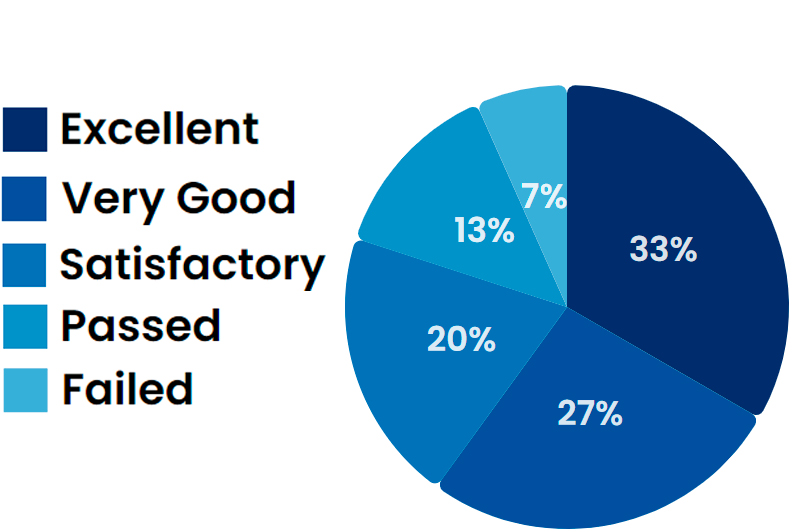
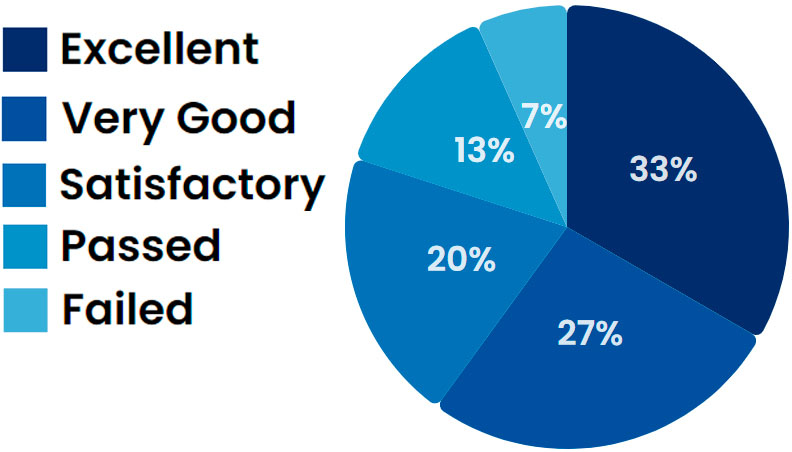
graphs again

diff --git a/grades.html b/grades.html
@@ -85,8 +85,8 @@
         </tr>
     </table>
     <div style="text-align: center;">
-        <img class="graphic-teacher" src="images/graphic3.jpg" alt="graphic3">
-        <img class="graphic-teacher" src="images/graphic4.jpg" alt="graphic4">
+        <img id="graphic3" src="images/graphic3.jpg" alt="graphic3">
+        <img id="graphic4" src="images/graphic4.jpg" alt="graphic4">
     </div>
 </section>
 

diff --git a/styles/main.css b/styles/main.css
@@ -1330,11 +1330,16 @@ footer ul li a:hover {
 
 #graphic2{
     max-width: 320px;
+    padding: 0px 40px 0px 30px;
+}
+
+#graphic3{
+    max-width: 320px;
     padding: 20px 0px 0px 0px;
 }
 
-.graphic-teacher{
+#graphic4{
     max-width: 320px;
-    padding: 25px 0px 0px 0px;
+    padding: 0px 40px 0px 30px;
 }
 
